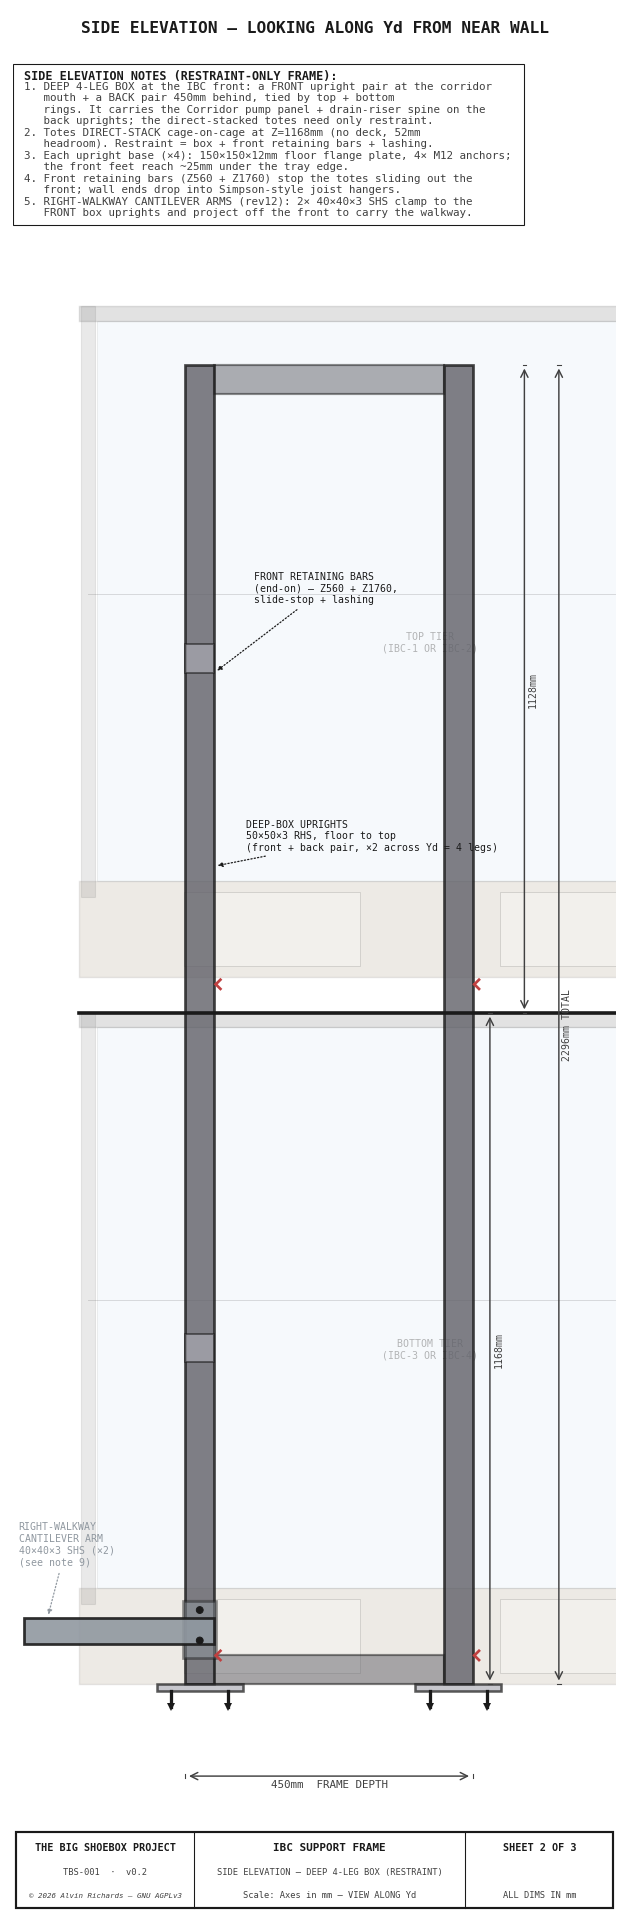
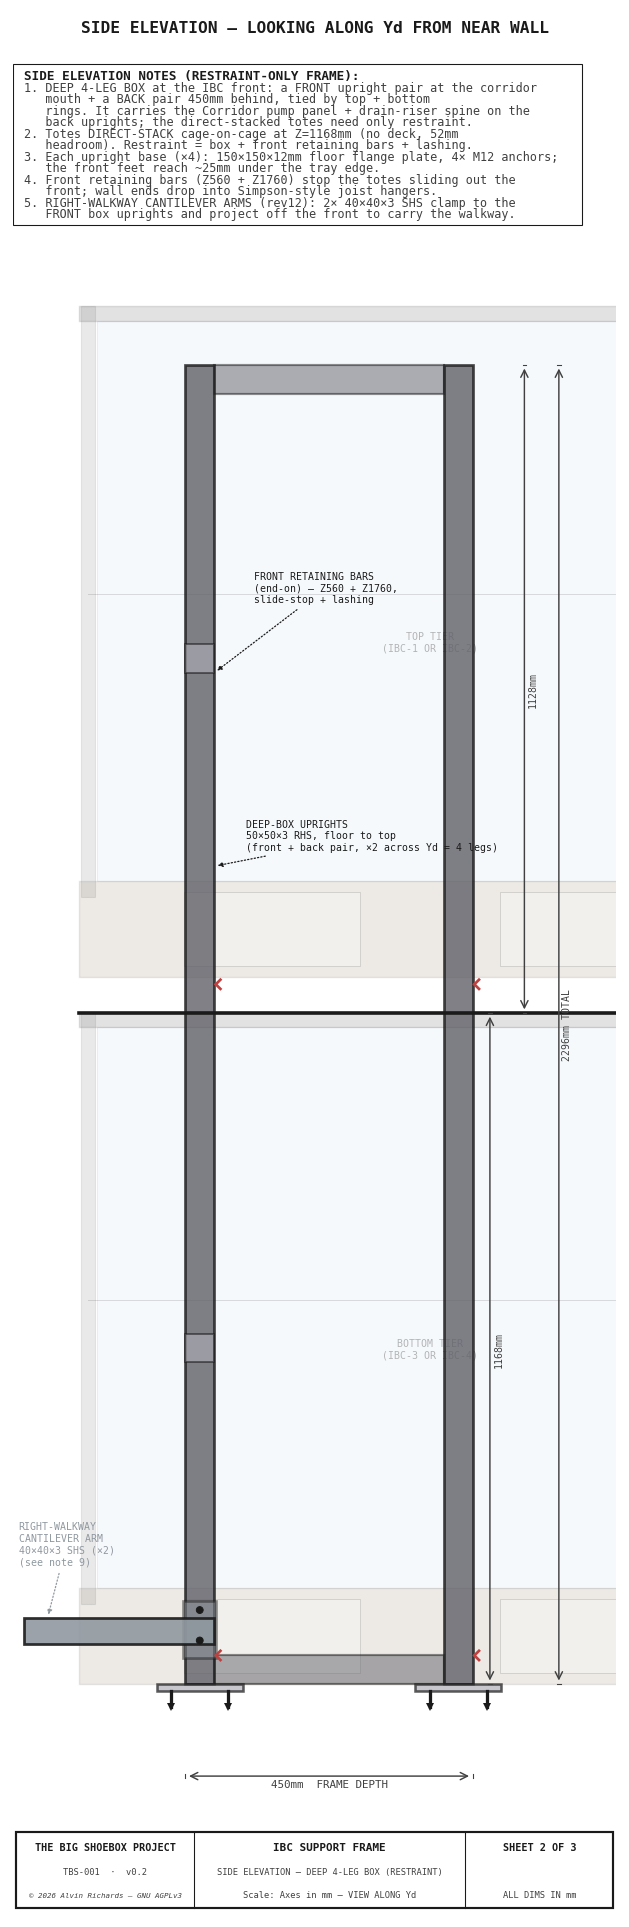
Tidy labels

Changed region(s): [[0.0604, 0.0311, 0.8458, 0.1245]]

diff --git a/src/generators/generate_ibc_frame_drawing.py b/src/generators/generate_ibc_frame_drawing.py
@@ -717,7 +717,7 @@ def sheet2():
          "   FRONT box uprights and project off the front to carry the walkway.",
     ]
     draw_notes(ax, notes, (X_LO + 20), (Z_HI - 100), spacing=(20),
-               fs=6, font=FONT, width=(850))
+               fs=6.5, font=FONT, width=(950))
 
     # ── Title block ─────────────────────────────────────────────────────────
     title_block(ax, "SHEET 2 OF 3",
@@ -971,7 +971,7 @@ def sheet3():
         "uprights (Yd 1046/1266), projecting off the front (−X) to carry the right walkway.",
     ]
     draw_notes(ax, notes, (X_HI * 0.32), (YD_LO + 510), spacing=(20),
-               fs=7, font=FONT, width=(1040))
+               fs=7, font=FONT, width=(950))
 
     # ── Title block ─────────────────────────────────────────────────────────
     title_block(ax, "SHEET 3 OF 3",
